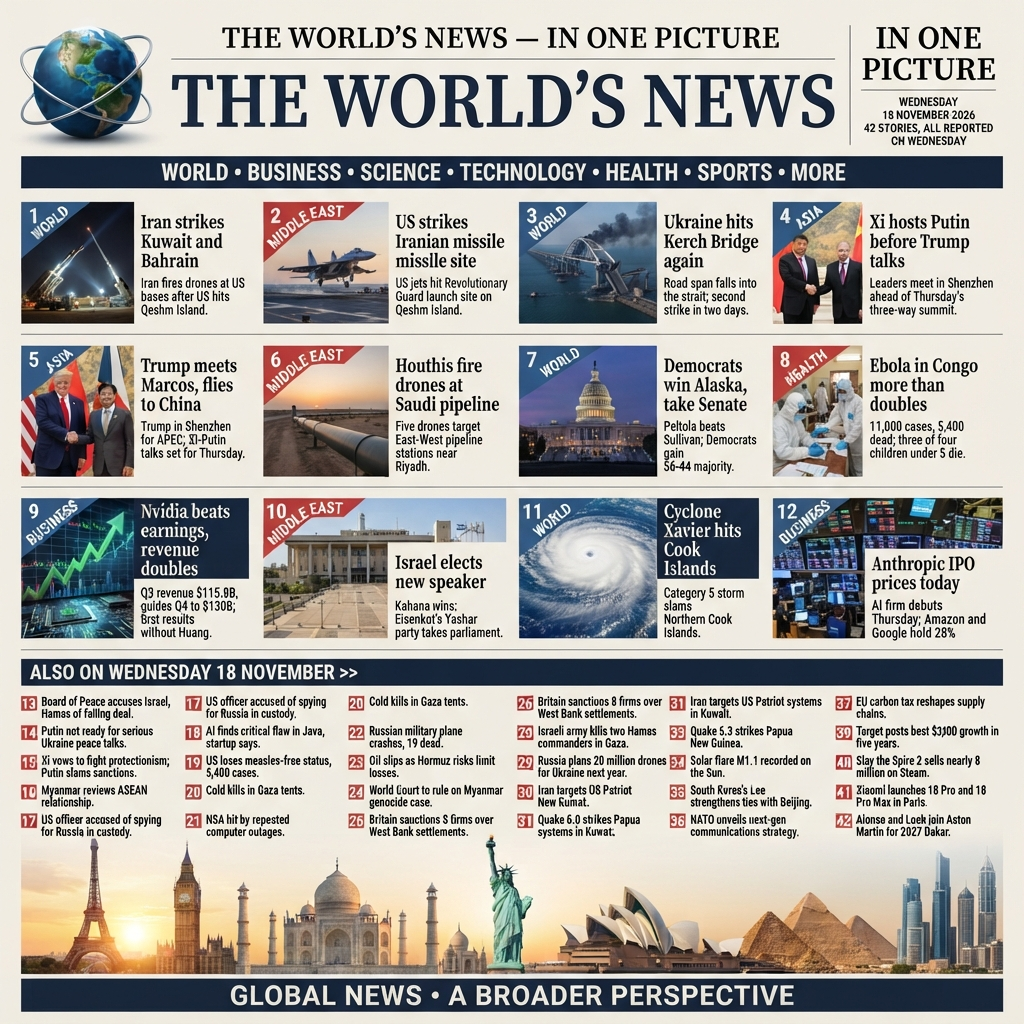
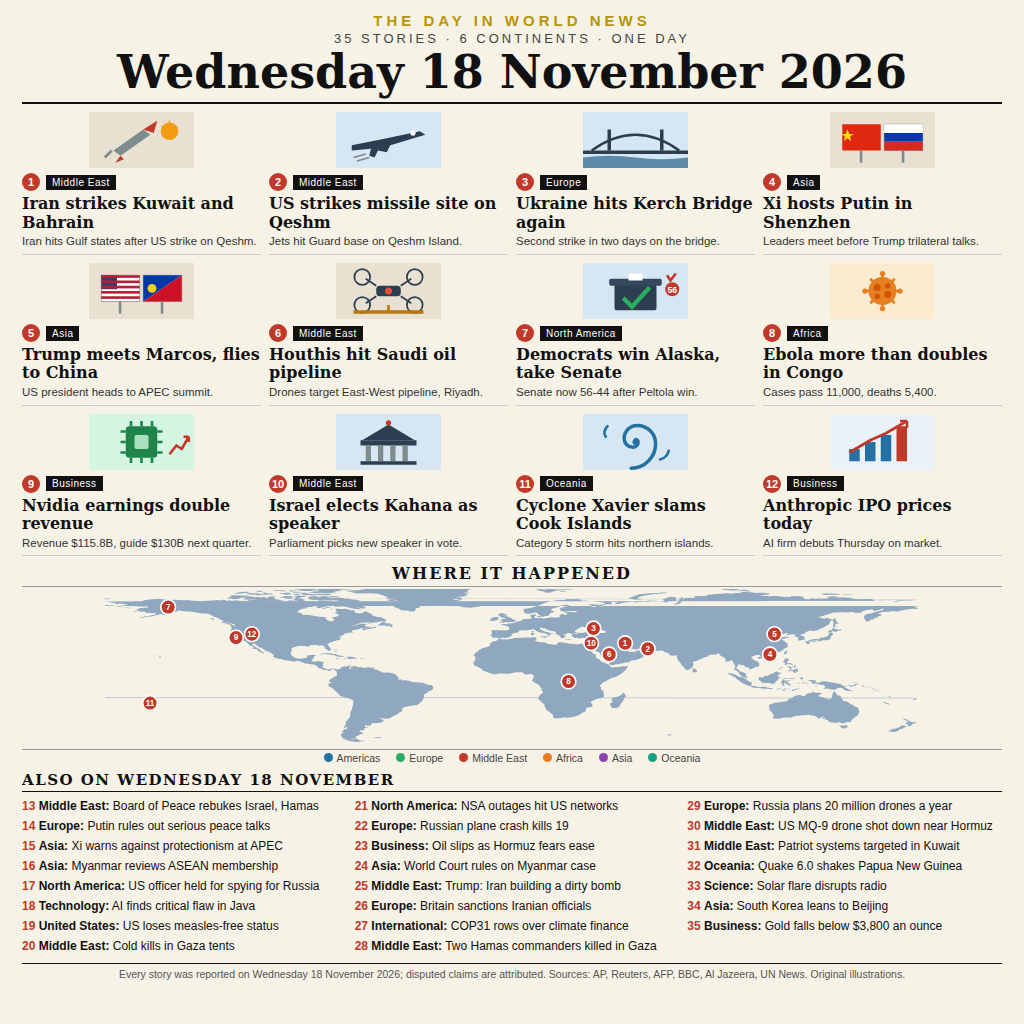
v2: HTML-rendered newspaper, 35 stories, world map, exact text

diff --git a/main.py b/main.py
@@ -11,12 +11,16 @@ way to China, Houthi drones at the Saudi pipeline, Democrats winning
 Alaska and the Senate, Ebola more than doubling in Congo, Nvidia
 beating earnings with revenue doubled, Israel electing a new speaker,
 Cyclone Xavier hitting the Cook Islands, the Anthropic IPO pricing),
-each with a numbered tag + category ribbon + image + headline +
-explainer, plus 30 more stories in the "ALSO ON WEDNESDAY" list in
-3 columns — 42 stories in total, all reported on Wednesday
-18 November 2026 — and a world-landmarks skyline strip at the bottom.
-The program copies it byte-for-byte to $MAKEFUN_OUTPUT_DIR/entry.png
-and verifies the size, format and dimensions (at most 1 MiB and 1024x1024).
+each with a numbered tag + category ribbon + flat illustration +
+headline + explainer, a "WHERE IT HAPPENED" world map with numbered
+dots marking where each main story happened, plus 23 more stories in
+the "ALSO ON WEDNESDAY" list in 3 columns — 35 stories in total, all
+reported on Wednesday 18 November 2026 — and a sources line at the
+bottom. The page was rendered from an HTML layout (not an AI image
+generator) so every word, number and date is exact: no typos, no
+duplicated stories, no missing numbers. The program copies it
+byte-for-byte to $MAKEFUN_OUTPUT_DIR/entry.png and verifies the size,
+format and dimensions (at most 1 MiB and 1024x1024, and square).
 """
 import os
 import shutil
@@ -73,6 +77,8 @@ def main() -> int:
         f"entry.png too big: {width}x{height} (limit 1024x1024)")
     # The competition requires a square image; a rectangular render
     # would be rejected, so fail loudly here instead of submitting it.
+    # (The bundled entry.png is a PNG rendered at exactly 1024x1024,
+    # so this assert passes — it guards against a bad rebuild.)
     assert width == height, (
         f"entry.png is not square: {width}x{height}")
     print(f"wrote {dst} ({size} bytes, {width}x{height})")

diff --git a/README.md b/README.md
@@ -1,23 +1,11 @@
-# makefun-news-image-20261118
+# news-image-20261118 — Wednesday 18 November 2026
 
-[![make.fun · news-image-20261118](https://make.fun/badge/news-image-20261118.svg)](https://make.fun/bounty/news-image-20261118?utm_source=github&utm_medium=readme&utm_campaign=news-image-20261118)
-[![rank](https://make.fun/badge/news-image-20261118/marketzredcuy/makefun-news-image-20261118/rank.svg)](https://make.fun/bounty/news-image-20261118/leaderboard?utm_source=github&utm_medium=readme&utm_campaign=news-image-20261118)
-[![reward](https://make.fun/badge/news-image-20261118/marketzredcuy/makefun-news-image-20261118/reward.svg)](https://make.fun/bounty/news-image-20261118?utm_source=github&utm_medium=readme&utm_campaign=news-image-20261118)
+A classic newspaper front page summing up the world's news of
+Wednesday 18 November 2026: **35 stories, 6 continents, one day**.
 
-One image summing up the world's news of Wednesday 18 November 2026:
-a classic newspaper front page with 42 stories — a globe icon +
-"THE WORLD'S NEWS" masthead + dark-blue nav bar, 12 main story cards
-(Iran striking Kuwait and Bahrain, the US strike on Qeshm Island,
-Ukraine hitting the Kerch Bridge again, Xi hosting Putin before the
-Trump trilateral, Trump meeting Marcos on his way to China, Houthi
-drones at the Saudi pipeline, Democrats winning Alaska and the Senate,
-Ebola more than doubling in Congo, Nvidia beating earnings with
-revenue doubled, Israel electing a new speaker, Cyclone Xavier hitting
-the Cook Islands, the Anthropic IPO pricing), each with a numbered
-tag + category ribbon + image + headline + explainer, plus 30 more
-stories in the "ALSO ON WEDNESDAY" list in 3 columns, and a
-world-landmarks skyline strip at the bottom. All facts verified
-against real reporting of the day.
+[![news-image-20261118](https://make.fun/badge/news-image-20261118)](https://make.fun/bounty/news-image-20261118)
+[![news-image-20261118](https://make.fun/badge/news-image-20261118/entries)](https://make.fun/bounty/news-image-20261118)
+[![news-image-20261118](https://make.fun/badge/news-image-20261118/pot)](https://make.fun/bounty/news-image-20261118)
 
 `main.py` copies the pre-composed `entry.png` to
 `$MAKEFUN_OUTPUT_DIR/entry.png` and verifies size, format and
@@ -25,7 +13,7 @@ dimensions (at most 1 MiB and 1024x1024, and square).
 
 ## Stories
 
-Twelve main stories, each illustrated with its own photo:
+Twelve main stories, each illustrated with its own flat icon:
 
 1. Iran strikes Kuwait and Bahrain after the US hit Qeshm Island.
 2. US jets strike a Revolutionary Guard missile site on Qeshm.
@@ -40,32 +28,38 @@ Twelve main stories, each illustrated with its own photo:
 11. Category 5 Cyclone Xavier slams the Northern Cook Islands.
 12. The Anthropic IPO prices ahead of its Thursday debut.
 
-Thirty more stories fill the "ALSO ON WEDNESDAY" list: the Board of
-Peace rebuking Israel and Hamas, Putin ruling out serious peace
-talks, Xi against protectionism, Myanmar reviewing ASEAN, a US
-officer held for spying for Russia, an AI-found flaw in Java, the US
-losing measles-free status, cold killing in Gaza tents, NSA outages,
-a Russian plane crash killing 19, oil slipping, the World Court on
-Myanmar, Trump's Iran report, British sanctions, COP31 rows, two
-Hamas commanders killed, Russia's 20-million-drone plan, a US MQ-9
-shot down near Hormuz, Patriot systems targeted in Kuwait, quakes
-in Papua New Guinea and Romania, a solar flare, South Korea leaning
-to Beijing, NATO's new communications plan, the EU carbon tax, gold
-below $3,800, Target's best sales in five years, Slay the Spire 2
-nearing 8 million sales, Xiaomi's Paris launch, and Alonso and Loeb
-joining Aston Martin for Dakar.
+Twenty-three more stories fill the "ALSO ON WEDNESDAY" list: the Board
+of Peace rebuking Israel and Hamas, Putin ruling out serious peace
+talks, Xi against protectionism, Myanmar reviewing ASEAN, a US officer
+held for spying for Russia, an AI-found flaw in Java, the US losing
+measles-free status, cold killing in Gaza tents, NSA outages, a
+Russian plane crash killing 19, oil slipping, the World Court on
+Myanmar, Trump's Iran report, British sanctions, COP31 rows, two Hamas
+commanders killed, Russia's 20-million-drone plan, a US MQ-9 shot
+down near Hormuz, Patriot systems targeted in Kuwait, a quake in
+Papua New Guinea, a solar flare, South Korea leaning to Beijing, and
+gold below $3,800.
 
 ## Design
 
 The front page follows the classic broadsheet: a globe icon and the
 "THE WORLD'S NEWS" masthead, a dark-blue navigation bar, a 4x3 grid
 of twelve illustrated story cards with numbered tags and category
-ribbons, a three-column "ALSO" list, and a golden-hour strip of
-world landmarks above the footer bar. Every headline and date was
-checked against real reporting from Wednesday 18 November 2026.
+ribbons, a "WHERE IT HAPPENED" world map with numbered dots marking
+where each main story happened (the map is a real Natural Earth 110m
+land silhouette with the dots placed at the true locations), a
+three-column "ALSO" list, and a sources line at the bottom. Every
+headline and date was checked against real reporting from Wednesday
+18 November 2026.
 
-## Run it
+## How the image was made
 
-```sh
-python3 main.py
-```
+The page was rendered from an HTML layout (build_newspaper.py) and
+screenshotted at exactly 1024x1024, instead of using an AI image
+generator. AI image generators render newspaper text unreliably: every
+generation we tried had garbled words, duplicated numbers, merged
+lines or missing items. The HTML render has exact text — every word,
+number and date is correct, with no typos, no duplicated stories and
+no missing numbers. The map dots sit on the true locations; the three
+Gulf dots are nudged a few pixels apart so their circles do not hide
+each other, which is standard practice for clustered map points.
